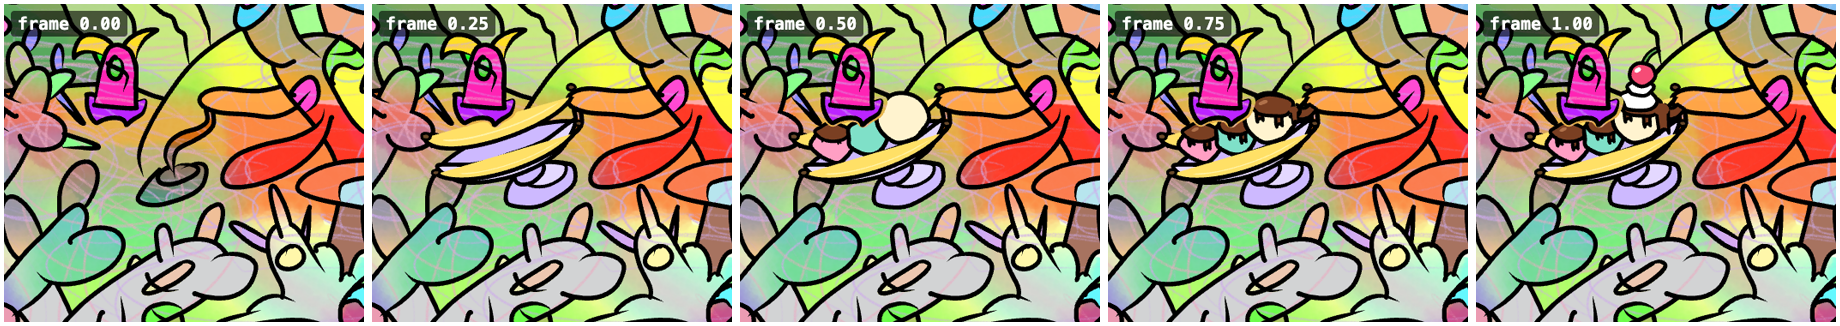
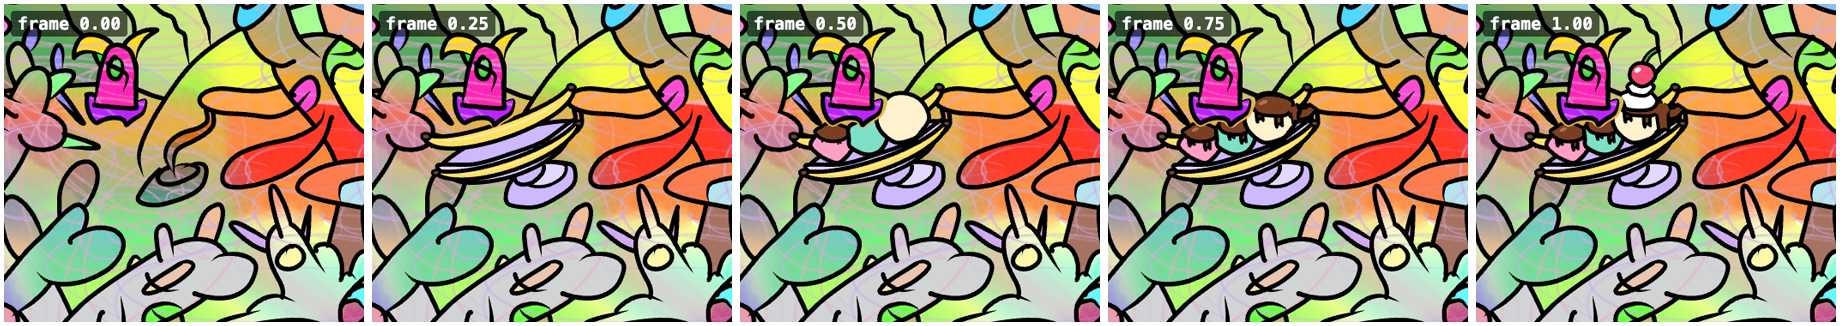
Fix complex numbers in the banana split's banana outlines
sin(pi) came out a hair below zero and its 0.6 power turned complex, so two
sprite paths had '-0.0j' in them and the browser dropped them.

diff --git a/scripts/ground_endframes.py b/scripts/ground_endframes.py
@@ -123,7 +123,7 @@ def crescent(P, w, colour, edge=INK) -> str:
         dx, dy = b[0] - a[0], b[1] - a[1]
         d = math.hypot(dx, dy) or 1
         nx, ny = -dy / d, dx / d
-        ww = w * (0.25 + 0.75 * math.sin(math.pi * i / (n - 1)) ** 0.6)
+        ww = w * (0.25 + 0.75 * max(0.0, math.sin(math.pi * i / (n - 1))) ** 0.6)
         L.append((x + nx * ww, y + ny * ww))
         Rr.append((x - nx * ww, y - ny * ww))
     return outlined(closed(L + Rr[::-1]), colour, edge)
@@ -387,7 +387,7 @@ def crescent_d(P, w) -> str:
         dx, dy = b[0] - a[0], b[1] - a[1]
         d = math.hypot(dx, dy) or 1
         nx, ny = -dy / d, dx / d
-        ww = w * (0.25 + 0.75 * math.sin(math.pi * i / (n - 1)) ** 0.6)
+        ww = w * (0.25 + 0.75 * max(0.0, math.sin(math.pi * i / (n - 1))) ** 0.6)
         L.append((x + nx * ww, y + ny * ww))
         Rr.append((x - nx * ww, y - ny * ww))
     return closed(L + Rr[::-1])
